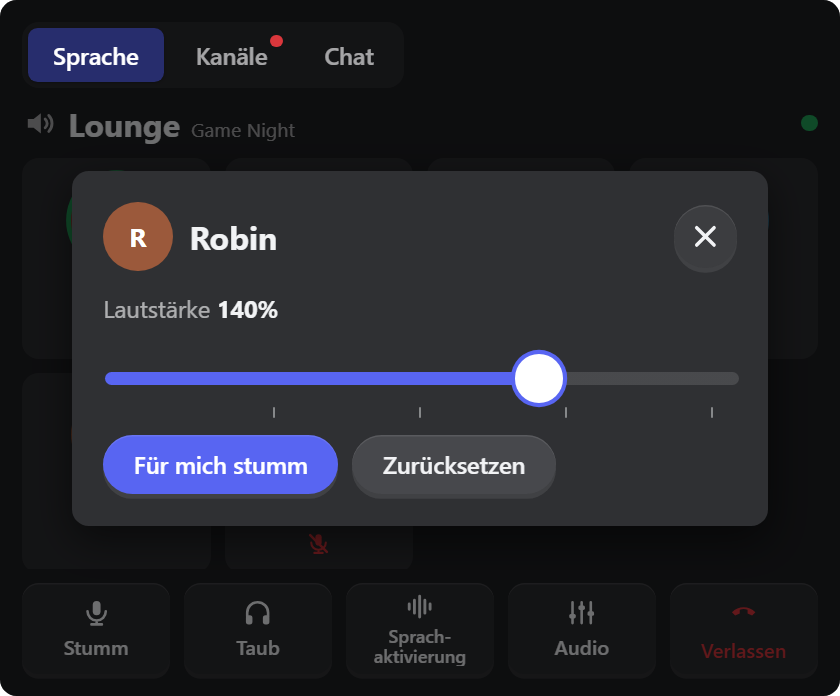
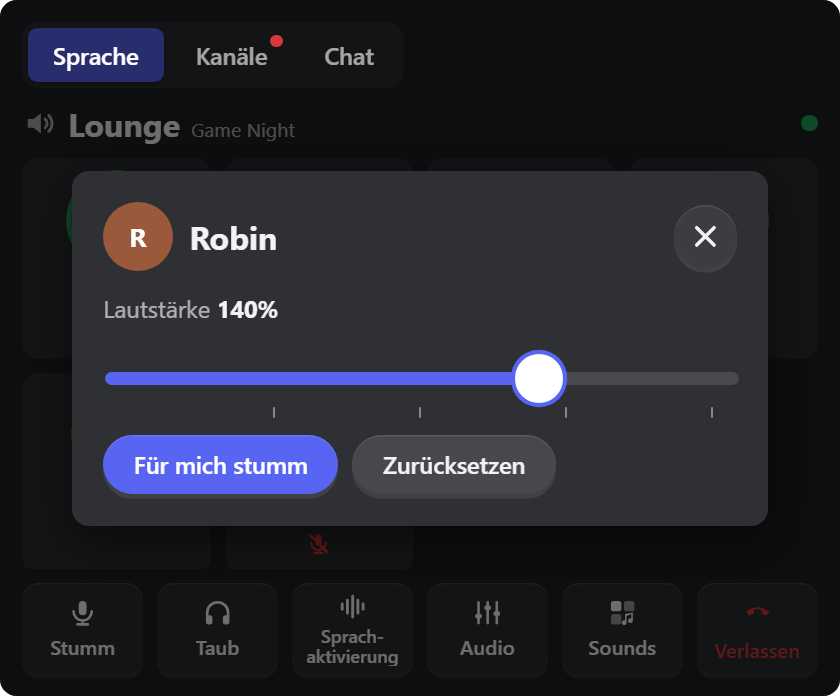
Docs and screenshots for 0.9.8 (soundboard)

diff --git a/README.de.md b/README.de.md
@@ -20,6 +20,7 @@ Kostenlos und Open Source. Kein Konto bei uns, keine Server, kein Tracking.
 |---|---|
 | ![Sprachkanal](docs/images/de/m-voice.png) | **Dein Sprachkanal auf einen Blick**<br>Alle im Kanal mit Bild und Namen. Ein grüner Ring zeigt, wer spricht, rote Symbole zeigen, wer stumm oder taub ist. |
 | ![Lautstärke pro Person](docs/images/de/m-volume.png) | **Lautstärke für jede Person**<br>Tippe auf jemanden, um ihn lauter oder leiser zu machen (0–200 %) oder nur für dich stummzuschalten. Bei 100 % rastet der Regler ein. |
+| ![Soundboard](docs/images/de/m-soundboard.png) | **Soundboard**<br>Der Knopf *Sounds* spielt Discord- und Server-Sounds in deinem Sprachkanal ab. Gedrückt halten heftet einen Sound als Favorit an. |
 | ![Audiogeräte](docs/images/de/m-audio.png) | **Mikrofon und Kopfhörer**<br>Der Knopf *Audio* wechselt Discords Eingabe- und Ausgabegerät und stellt ihre Lautstärke ein – praktisch, wenn du zwischen Headset und Lautsprechern wechselst. |
 | ![Direktnachrichten](docs/images/de/m-direct.png) | **Server, Kanäle und Direktnachrichten**<br>Deine Server in einer Spalte wie in Discord – gedrückt halten zum Verschieben. Tippe auf einen Sprachkanal zum Beitreten, auf einen Textkanal zum Lesen. Rote Zahlen zeigen neue Nachrichten an Servern, Kanälen und Direktnachrichten. |
 | ![Privatmodus](docs/images/de/m-private.png) | **Privatmodus fürs Streamen**<br>Ein Tipp auf das Auge versteckt Chat-Texte, Bilder, Emojis und Reaktionen, bis du auf den Chat tippst. |

diff --git a/README.md b/README.md
@@ -20,6 +20,7 @@ Free and open source. No account with us, no servers, no tracking.
 |---|---|
 | ![Voice channel](docs/images/en/m-voice.png) | **Your voice channel at a glance**<br>Everyone in the channel with avatar and name. A green ring shows who is speaking, red icons show who is muted or deafened. |
 | ![Volume per person](docs/images/en/m-volume.png) | **Volume for each person**<br>Tap someone to make them louder or quieter (0–200 %) or mute them just for you. The slider clicks into place at 100 %. |
+| ![Soundboard](docs/images/en/m-soundboard.png) | **Soundboard**<br>The *Sounds* button plays Discord's sounds and your servers' sounds in your voice channel. Press and hold a sound to pin it as a favourite. |
 | ![Audio devices](docs/images/en/m-audio.png) | **Microphone and headphones**<br>The *Audio* button switches Discord's input and output device and sets their volume – handy when you swap between headset and speakers. |
 | ![Direct messages](docs/images/en/m-direct.png) | **Servers, channels and direct messages**<br>Your servers in a column like in Discord – press and hold one to move it. Tap a voice channel to join, a text channel to read it. Red numbers show new messages on servers, channels and direct messages. |
 | ![Private mode](docs/images/en/m-private.png) | **Private mode for streaming**<br>One tap on the eye button hides chat text, pictures, emojis and reactions until you tap the chat. |
